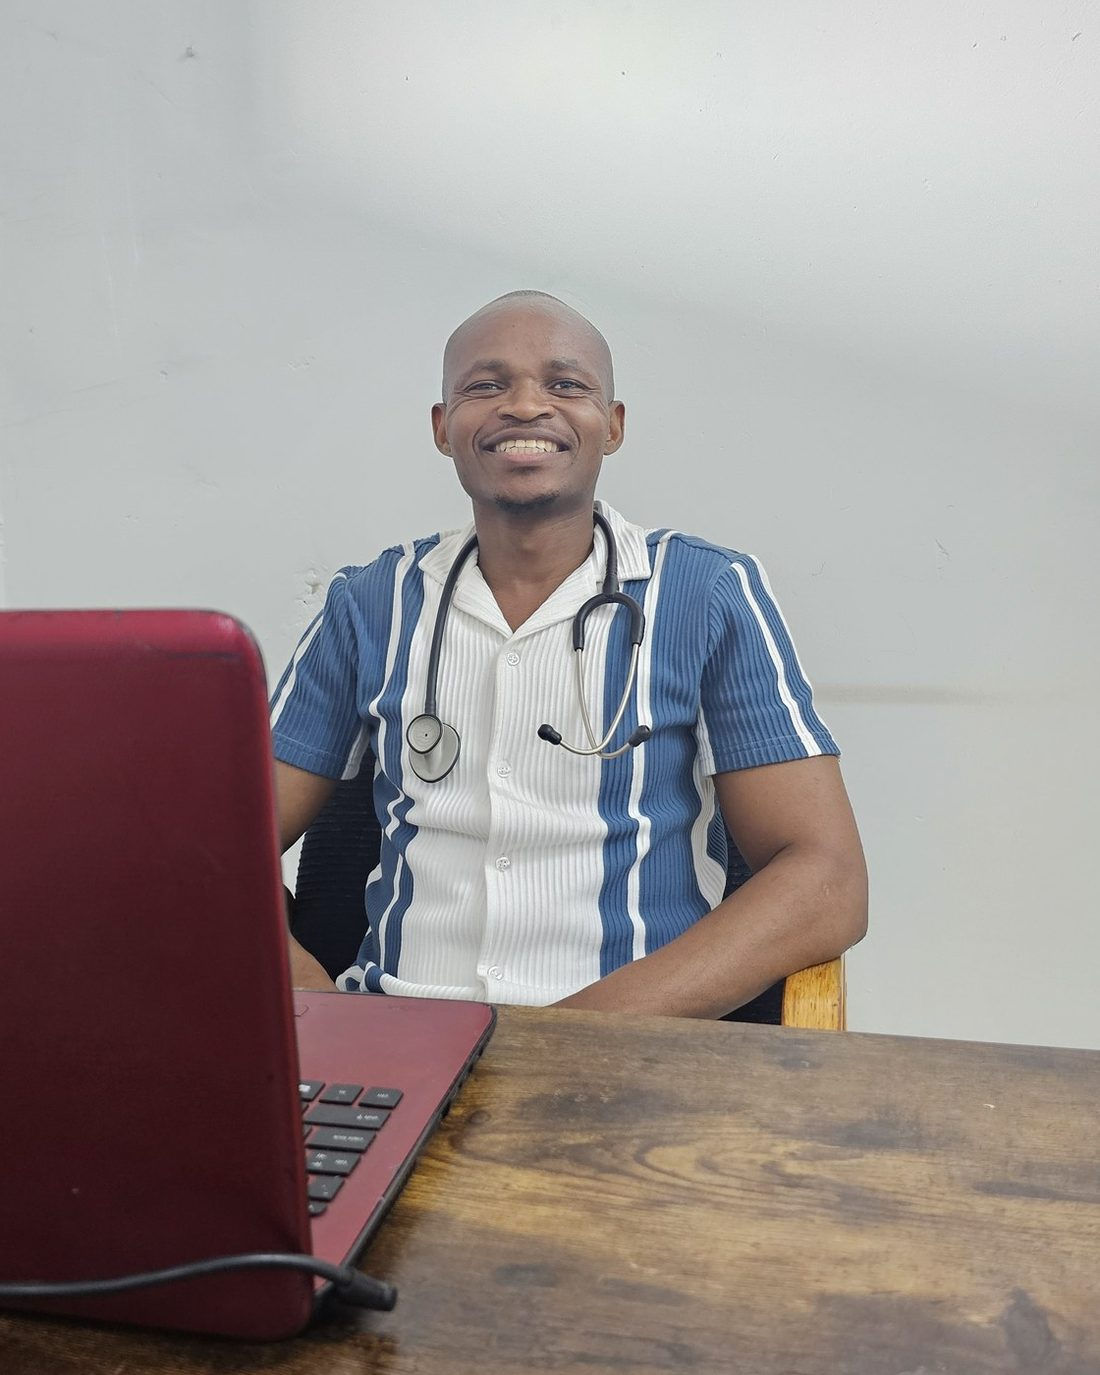
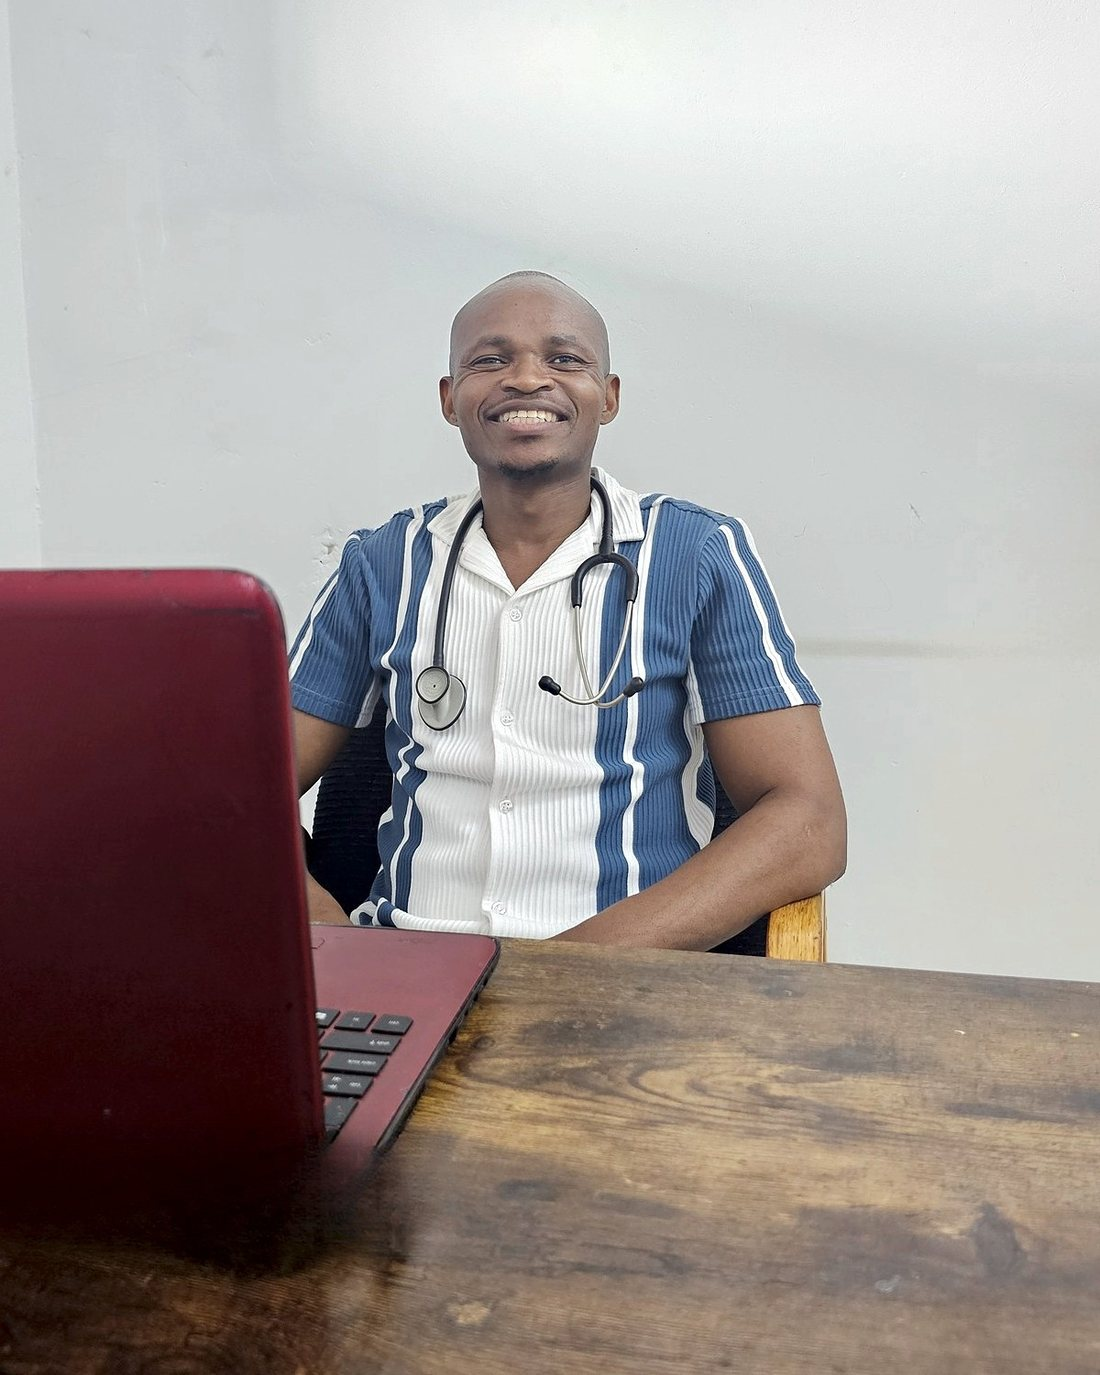
Replace practice photos with locally retouched versions (LaMa inpainting: cars, clothes, clutter removed; straightened sign); add dispensary photo

Changed region(s): [[0.0, 0.1833, 1.0, 1.0], [0.0, 0.1222, 0.0309, 0.336], [0.0, 0.7331, 0.0927, 0.7942]]

diff --git a/src/components/Gallery.tsx b/src/components/Gallery.tsx
@@ -7,8 +7,9 @@ import { doctor } from '@/lib/practice';
 
 const cards = [
   { name: 'waiting-room', alt: 'The waiting room: a navy sofa, coffee table and the practice banner against green walls', caption: 'The waiting room' },
-  { name: 'consulting-room', alt: 'The consulting room with an examination bed, desk and drip stand', caption: 'The consulting room' },
+  { name: 'consulting-room', alt: 'The consulting room with an examination bed and desk', caption: 'The consulting room' },
   { name: 'equipment', alt: 'Examination and suturing instruments laid out on the desk, including an otoscope set and blood pressure monitor', caption: 'Equipment for examinations and minor procedures' },
+  { name: 'dispensary', alt: 'Wooden shelves stocked with medicines in the dispensary', caption: 'Medicines dispensed on site' },
   { name: 'entrance', alt: `${doctor.fullName} at the entrance of the practice under the sign`, caption: 'The entrance on Matakata Street' },
 ];
 
@@ -68,7 +69,7 @@ export default function Gallery() {
         {cards.map((c) => (
           <li key={c.name} className="w-[78vw] shrink-0 snap-start sm:w-80">
             <figure className="overflow-hidden rounded-card bg-white">
-              <Photo name={c.name} alt={c.alt} width={1600} height={1104} sizes="(min-width: 640px) 320px, 78vw" className="aspect-[4/3] w-full object-cover" />
+              <Photo name={c.name} alt={c.alt} width={1600} height={1203} sizes="(min-width: 640px) 320px, 78vw" className="aspect-[4/3] w-full object-cover" />
               <figcaption className="px-5 py-4 text-navy-soft">{c.caption}</figcaption>
             </figure>
           </li>

diff --git a/src/app/about/page.tsx b/src/app/about/page.tsx
@@ -14,9 +14,10 @@ export const metadata = pageMeta(
 );
 
 const gallery = [
-  { name: 'waiting-room', alt: 'The waiting room: a navy sofa, coffee table and the practice banner against green walls', w: 1600, h: 1104, caption: 'The waiting room' },
-  { name: 'consulting-room', alt: 'The consulting room with an examination bed, desk and drip stand', w: 1350, h: 1050, caption: 'The consulting room' },
-  { name: 'equipment', alt: 'Examination and suturing instruments laid out on the desk, including an otoscope set and blood pressure monitor', w: 1400, h: 993, caption: 'Equipment for examinations and minor procedures' },
+  { name: 'waiting-room', alt: 'The waiting room: a navy sofa, coffee table and the practice banner against green walls', w: 1600, h: 1203, caption: 'The waiting room' },
+  { name: 'consulting-room', alt: 'The consulting room with an examination bed and desk', w: 1200, h: 1502, caption: 'The consulting room' },
+  { name: 'equipment', alt: 'Examination and suturing instruments laid out on the desk, including an otoscope set and blood pressure monitor', w: 1400, h: 1000, caption: 'Equipment for examinations and minor procedures' },
+  { name: 'dispensary', alt: 'Wooden shelves stocked with medicines in the dispensary', w: 1200, h: 1597, caption: 'Medicines dispensed on site' },
 ];
 
 const bullet = <span className="mt-[0.6em] h-2 w-2 shrink-0 rounded-full bg-gold" aria-hidden="true" />;

diff --git a/src/app/page.tsx b/src/app/page.tsx
@@ -68,7 +68,7 @@ export default function HomePage() {
           name="entrance"
           alt={`${doctor.fullName} standing at the entrance of the practice at ${address.street}, ${address.suburb}, under the practice sign`}
           width={1600}
-          height={1156}
+          height={1203}
           priority
           sizes="100vw"
           className="hero-photo absolute inset-0 h-full w-full object-cover object-[50%_35%]"
@@ -177,7 +177,7 @@ export default function HomePage() {
               name="waiting-room"
               alt=""
               width={1600}
-              height={1104}
+              height={1203}
               sizes="100vw"
               className="absolute inset-0 h-full w-full object-cover"
             />

diff --git a/src/app/contact/page.tsx b/src/app/contact/page.tsx
@@ -117,7 +117,7 @@ export default function ContactPage() {
                   name="building"
                   alt={`The practice building on ${address.street}: a grey two-storey building with the practice sign above the ground-floor entrance`}
                   width={1600}
-                  height={497}
+                  height={900}
                   className="w-full object-cover"
                 />
                 <figcaption className="px-5 py-3 text-sm text-navy-soft">What to look for from the street.</figcaption>
